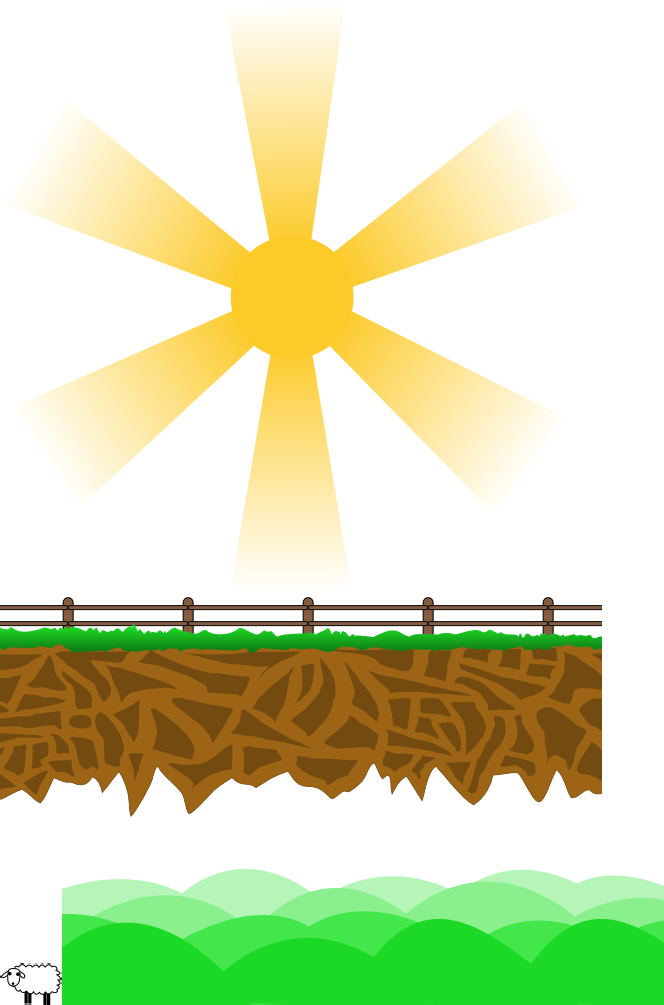
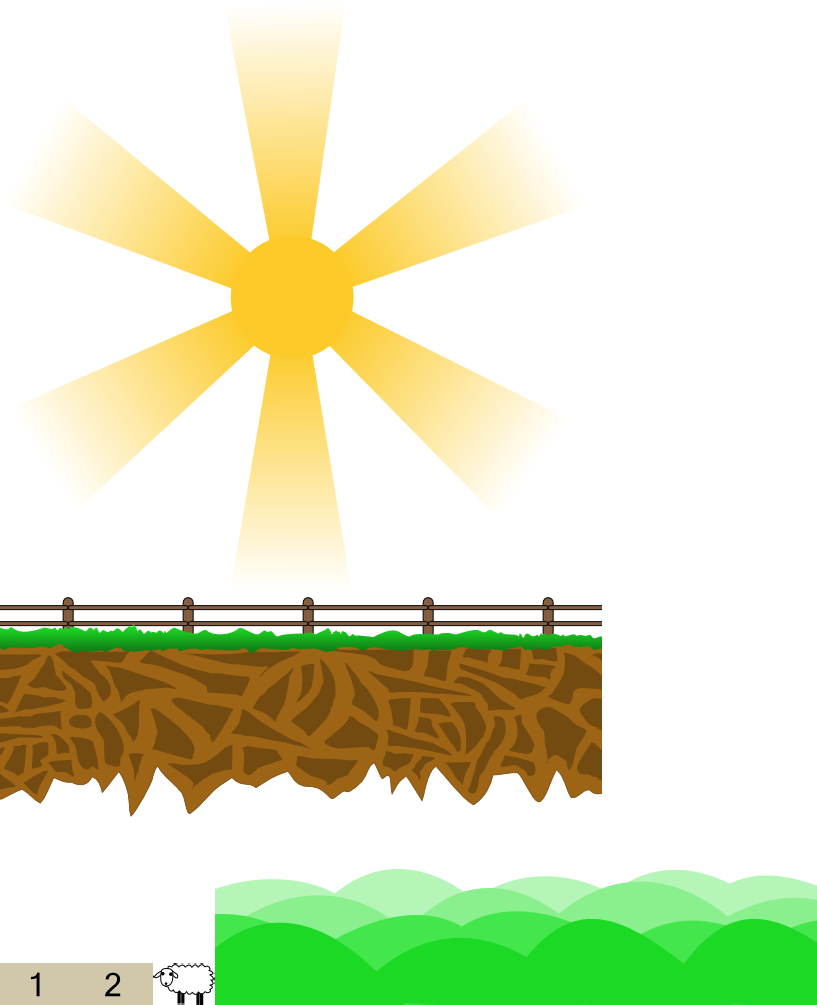
Implemented foreground with placeholder textures.

diff --git a/helljump/src/com/turbogerm/helljump/game/background/GameForeground.java b/helljump/src/com/turbogerm/helljump/game/background/GameForeground.java
@@ -1,0 +1,129 @@
+package com.turbogerm.helljump.game.background;
+
+import com.badlogic.gdx.assets.AssetManager;
+import com.badlogic.gdx.graphics.g2d.Sprite;
+import com.badlogic.gdx.graphics.g2d.SpriteBatch;
+import com.badlogic.gdx.graphics.g2d.TextureAtlas;
+import com.badlogic.gdx.graphics.g2d.TextureAtlas.AtlasRegion;
+import com.badlogic.gdx.math.MathUtils;
+import com.badlogic.gdx.math.Rectangle;
+import com.turbogerm.germlibrary.util.GameUtils;
+import com.turbogerm.helljump.CameraData;
+import com.turbogerm.helljump.game.GameArea;
+import com.turbogerm.helljump.game.GameAreaUtils;
+import com.turbogerm.helljump.resources.ResourceNames;
+
+public final class GameForeground {
+    
+    private static final int NUM_IMAGES = ResourceNames.BACKGROUND_FOREGROUND_SIDE_ELEMENT_IMAGE_COUNT;
+    
+    private final Rectangle mCameraRect;
+    
+    private final SideSprites mLeftSideSprites;
+    private final SideSprites mRightSideSprites;
+    
+    private final float mSpriteHeight;
+    
+    private float mRiseHeight;
+    
+    public GameForeground(CameraData cameraData, AssetManager assetManager) {
+        
+        mCameraRect = cameraData.getNonOffsetedGameCameraRect();
+        
+        TextureAtlas atlas = assetManager.get(ResourceNames.BACKGROUND_ATLAS);
+        AtlasRegion spriteRegion = atlas.findRegion(ResourceNames.getBackgroundForegroundSideElementImageName(0));
+        float spriteWidth = spriteRegion.getRegionWidth() * GameAreaUtils.PIXEL_TO_METER;
+        mSpriteHeight = spriteRegion.getRegionHeight() * GameAreaUtils.PIXEL_TO_METER;
+        
+        int numDisplayedSpritesPerSide = MathUtils.ceil(GameArea.GAME_AREA_HEIGHT / mSpriteHeight) + 1;
+        
+        mLeftSideSprites = new SideSprites(atlas, numDisplayedSpritesPerSide,
+                spriteWidth, mSpriteHeight, true);
+        mRightSideSprites = new SideSprites(atlas, numDisplayedSpritesPerSide,
+                spriteWidth, mSpriteHeight, false);
+    }
+    
+    public void reset(float riseHeight) {
+        mRiseHeight = riseHeight;
+        
+        int numSprites = MathUtils.round(mRiseHeight / mSpriteHeight);
+        mLeftSideSprites.reset(numSprites);
+        mRightSideSprites.reset(numSprites);
+    }
+    
+    public void render(SpriteBatch batch, float visibleAreaPosition) {
+        
+        if (mCameraRect.width <= GameArea.GAME_AREA_WIDTH) {
+            return;
+        }
+        
+        int firstDisplayedSpriteIndex = Math.max((int) (visibleAreaPosition / mSpriteHeight), 0);
+        mLeftSideSprites.render(batch, firstDisplayedSpriteIndex);
+        mRightSideSprites.render(batch, firstDisplayedSpriteIndex);
+    }
+    
+    private static class SideSprites {
+        private final Sprite[][] mSprites;
+        private final int[] mNextAvailableIndexesForImage;
+        
+        private int[] mImageIndexes;
+        
+        private final int mNumDisplayedSprites;
+        private final float mSpriteWidth;
+        private final float mSpriteHeight;;
+        
+        public SideSprites(TextureAtlas atlas, int numDisplayedSprites,
+                float spriteWidth, float spriteHeight,
+                boolean isLeft) {
+            
+            mNumDisplayedSprites = numDisplayedSprites;
+            mSpriteWidth = spriteWidth;
+            mSpriteHeight = spriteHeight;
+            
+            float positionX = isLeft ? -mSpriteWidth : GameArea.GAME_AREA_WIDTH;
+            
+            mSprites = new Sprite[NUM_IMAGES][mNumDisplayedSprites];
+            for (int i = 0; i < mSprites.length; i++) {
+                for (int j = 0; j < mNumDisplayedSprites; j++) {
+                    Sprite sprite = atlas.createSprite(
+                            ResourceNames.getBackgroundForegroundSideElementImageName(i));
+                    GameUtils.multiplySpriteSize(sprite, GameAreaUtils.PIXEL_TO_METER);
+                    sprite.setX(positionX);
+                    if (!isLeft) {
+                        sprite.flip(true, false);
+                    }
+                    mSprites[i][j] = sprite;
+                }
+            }
+            
+            mNextAvailableIndexesForImage = new int[NUM_IMAGES];
+        }
+        
+        public void reset(int numSprites) {
+            mImageIndexes = GameUtils.getRandomIntegers(mSprites.length, numSprites);
+        }
+        
+        public void render(SpriteBatch batch, int firstDisplayedSpriteIndex) {
+            int lastDisplayedSpriteIndex = Math.min(
+                    firstDisplayedSpriteIndex + mNumDisplayedSprites - 1, mImageIndexes.length - 1);
+            
+            float firstDisplayedSpriteY = firstDisplayedSpriteIndex * mSpriteHeight;
+            resetNextAvailableIndexesForImage();
+            
+            for (int i = firstDisplayedSpriteIndex; i <= lastDisplayedSpriteIndex; i++) {
+                int imageIndex = mImageIndexes[i];
+                Sprite sprite = mSprites[imageIndex][mNextAvailableIndexesForImage[imageIndex]];
+                mNextAvailableIndexesForImage[imageIndex]++;
+                
+                sprite.setY(firstDisplayedSpriteY + (i - firstDisplayedSpriteIndex) * mSpriteHeight);
+                sprite.draw(batch);
+            }
+        }
+        
+        private void resetNextAvailableIndexesForImage() {
+            for (int i = 0; i < mNextAvailableIndexesForImage.length; i++) {
+                mNextAvailableIndexesForImage[i] = 0;
+            }
+        }
+    }
+}

diff --git a/helljump/src/com/turbogerm/helljump/game/GameArea.java b/helljump/src/com/turbogerm/helljump/game/GameArea.java
@@ -10,6 +10,7 @@ import com.turbogerm.helljump.HellJump;
 import com.turbogerm.helljump.debug.DebugData;
 import com.turbogerm.helljump.game.background.EndBackgroundScene;
 import com.turbogerm.helljump.game.background.GameBackground;
+import com.turbogerm.helljump.game.background.GameForeground;
 import com.turbogerm.helljump.game.character.GameCharacter;
 import com.turbogerm.helljump.game.generator.RiseGenerator;
 
@@ -23,8 +24,8 @@ public final class GameArea {
     private static final float CHARACTER_POSITION_AREA_FRACTION = 0.4f;
     private static final float VISIBLE_AREA_MINIMUM_DISTANCE_TO_RISE = 2.0f;
     
-    private static final float END_BACKGROUND_APPEARANCE_DISTANCE_FROM_END =
-            500.0f * GameAreaUtils.PIXEL_TO_METER + GAME_AREA_HEIGHT;
+    private static final float END_BACKGROUND_APPEARANCE_DISTANCE_FROM_END = 10.0f + GAME_AREA_HEIGHT;
+    private static final float GAME_BACKGROUND_VANISHING_DISTANCE_FROM_END = 3.0f;
     
     private static final int SPRITE_BATCH_SIZE = 100;
     
@@ -46,8 +47,8 @@ public final class GameArea {
     private boolean mIsGameOver;
     
     private final GameBackground mGameBackground;
-    
     private final EndBackgroundScene mEndBackgroundScene;
+    private final GameForeground mGameForeground;
     
     public GameArea(CameraData cameraData, AssetManager assetManager, BitmapFont itemFont) {
         
@@ -61,9 +62,9 @@ public final class GameArea {
         mActiveAreaObjects = new GameActiveAreaObjects();
         
         mGameBackground = new GameBackground(
-                GameAreaUtils.getBackgroundColorSpectrum(), true, cameraData, assetManager);
-        
+                GameAreaUtils.getBackgroundColorSpectrum(), true, mCameraData, assetManager);
         mEndBackgroundScene = new EndBackgroundScene(cameraData, assetManager);
+        mGameForeground = new GameForeground(mCameraData, mAssetManager);
         
         reset();
     }
@@ -80,6 +81,7 @@ public final class GameArea {
         mCharacter.reset(mRiseHeight);
         
         mEndBackgroundScene.reset(mRiseHeight);
+        mGameForeground.reset(mRiseHeight);
     }
     
     public void update(float delta) {
@@ -110,7 +112,9 @@ public final class GameArea {
         mBatch.setProjectionMatrix(mCameraData.getGameAreaMatrix());
         mBatch.begin();
         
-        mGameBackground.render(mBatch, mVisibleAreaPosition);
+        if (isGameBackgroundVisible()) {
+            mGameBackground.render(mBatch, mVisibleAreaPosition);
+        }
         if (isEndBackgroundVisible()) {
             mEndBackgroundScene.render(mBatch);
         }
@@ -118,6 +122,7 @@ public final class GameArea {
         mActiveAreaObjects.render(mBatch);
         mCharacter.render(mBatch);
         
+        mGameForeground.render(mBatch, mVisibleAreaPosition);
         mBatch.end();
         
         // TODO: for debugging, remove
@@ -146,6 +151,10 @@ public final class GameArea {
         mVisibleAreaPosition = MathUtils.clamp(
                 mCharacter.getPosition().y - GAME_AREA_HEIGHT * CHARACTER_POSITION_AREA_FRACTION,
                 mVisibleAreaPosition, mRiseHeight - VISIBLE_AREA_MINIMUM_DISTANCE_TO_RISE);
+    }
+    
+    private boolean isGameBackgroundVisible() {
+        return mVisibleAreaPosition <= mRiseHeight - GAME_BACKGROUND_VANISHING_DISTANCE_FROM_END;
     }
     
     private boolean isEndBackgroundVisible() {

diff --git a/helljump/src/com/turbogerm/helljump/game/generator/RiseGenerator.java b/helljump/src/com/turbogerm/helljump/game/generator/RiseGenerator.java
@@ -27,7 +27,7 @@ import com.turbogerm.helljump.resources.ResourceNames;
 
 public final class RiseGenerator {
     
-    private static final int RISE_HEIGHT_STEPS = 10;
+    private static final int RISE_HEIGHT_STEPS = 5000;
     private static final int RISE_TRESHOLD_4 = 800;
     private static final int RISE_TRESHOLD_10 = 4000;
     private static final int RISE_LOWER_DIFFICULTY_STEP = RISE_TRESHOLD_4 / 5;
@@ -173,13 +173,13 @@ public final class RiseGenerator {
         riseSectionsData.add(currRiseSection);
         stepsInRise += currRiseSection.getStepRange();
         
-//        currRiseSection = RiseSectionGenerator.generateRiseSection(RISE_SECTIONS_METADATA.getByName("initial1"));
-//        riseSectionsData.add(currRiseSection);
-//        stepsInRise += currRiseSection.getStepRange();
-//        
-//        currRiseSection = RiseSectionGenerator.generateRiseSection(RISE_SECTIONS_METADATA.getByName("initial2"));
-//        riseSectionsData.add(currRiseSection);
-//        stepsInRise += currRiseSection.getStepRange();
+        currRiseSection = RiseSectionGenerator.generateRiseSection(RISE_SECTIONS_METADATA.getByName("initial1"));
+        riseSectionsData.add(currRiseSection);
+        stepsInRise += currRiseSection.getStepRange();
+        
+        currRiseSection = RiseSectionGenerator.generateRiseSection(RISE_SECTIONS_METADATA.getByName("initial2"));
+        riseSectionsData.add(currRiseSection);
+        stepsInRise += currRiseSection.getStepRange();
         
         boolean isTransitionSection = true;
         while (stepsInRise < RISE_HEIGHT_STEPS) {

diff --git a/helljump/src/com/turbogerm/helljump/resources/ResourceNames.java b/helljump/src/com/turbogerm/helljump/resources/ResourceNames.java
@@ -126,6 +126,13 @@ public final class ResourceNames {
     public static final String BACKGROUND_END_GROUND_IMAGE_NAME = "endground";
     public static final String BACKGROUND_END_SHEEP_IMAGE_NAME = "sheep";
     
+    private static final String BACKGROUND_FOREGROUND_SIDE_ELEMENT_IMAGE_NAME_FORMAT = "foregroundsideelement%02d";
+    public static final int BACKGROUND_FOREGROUND_SIDE_ELEMENT_IMAGE_COUNT = 2;
+    
+    public static String getBackgroundForegroundSideElementImageName(int index) {
+        return String.format(ResourceNames.BACKGROUND_FOREGROUND_SIDE_ELEMENT_IMAGE_NAME_FORMAT, index);
+    }
+    
     // fonts
     private static final String GUI_DIR = "gui/";
     public static final String GUI_SKIN = GUI_DIR + "uiskin.json";

diff --git a/germlibrary/src/com/turbogerm/germlibrary/util/GameUtils.java b/germlibrary/src/com/turbogerm/germlibrary/util/GameUtils.java
@@ -18,6 +18,15 @@ public final class GameUtils {
         return ((value % mod) + mod) % mod;
     }
     
+    public static int[] getRandomIntegers(int range, int count) {
+        int[] values = new int[count];
+        for (int i = 0; i < values.length; i++) {
+            values[i] = MathUtils.random(range - 1);
+        }
+        
+        return values;
+    }
+    
     public static Array<Integer> getRandomIndexes(int range, int numberOfIndexes, int offset) {
         return getRandomIndexes(range, numberOfIndexes, offset, null);
     }

diff --git a/helljump/src/com/turbogerm/helljump/screens/PlayScreen.java b/helljump/src/com/turbogerm/helljump/screens/PlayScreen.java
@@ -117,7 +117,7 @@ public final class PlayScreen extends ScreenBase {
         if (System.currentTimeMillis() - startTime > 100) {
             DebugData debugData = mGameArea.getDebugData();
             mDebugLabel.setText(debugData.toString());
-            mDebugLabel.setText("");
+            //mDebugLabel.setText("");
             startTime = System.currentTimeMillis();
         }
     }
